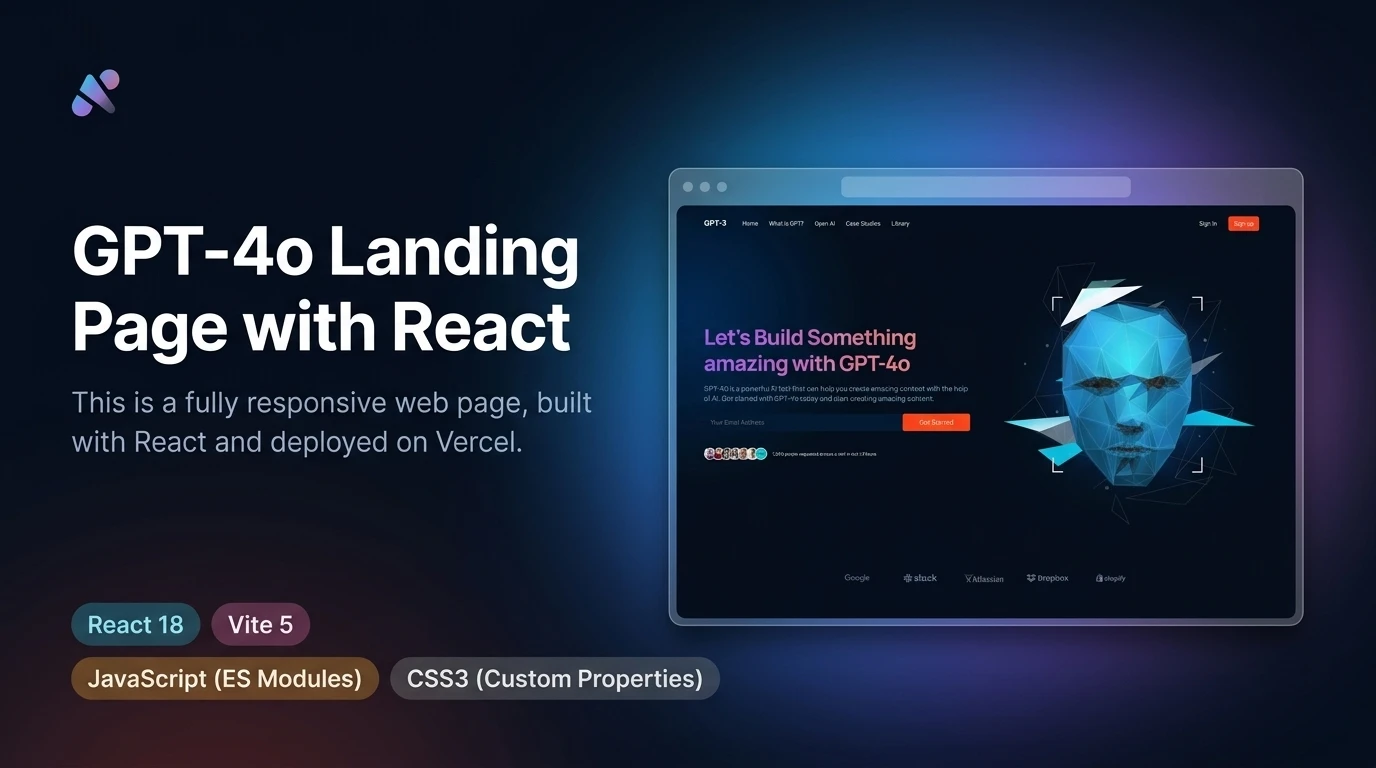
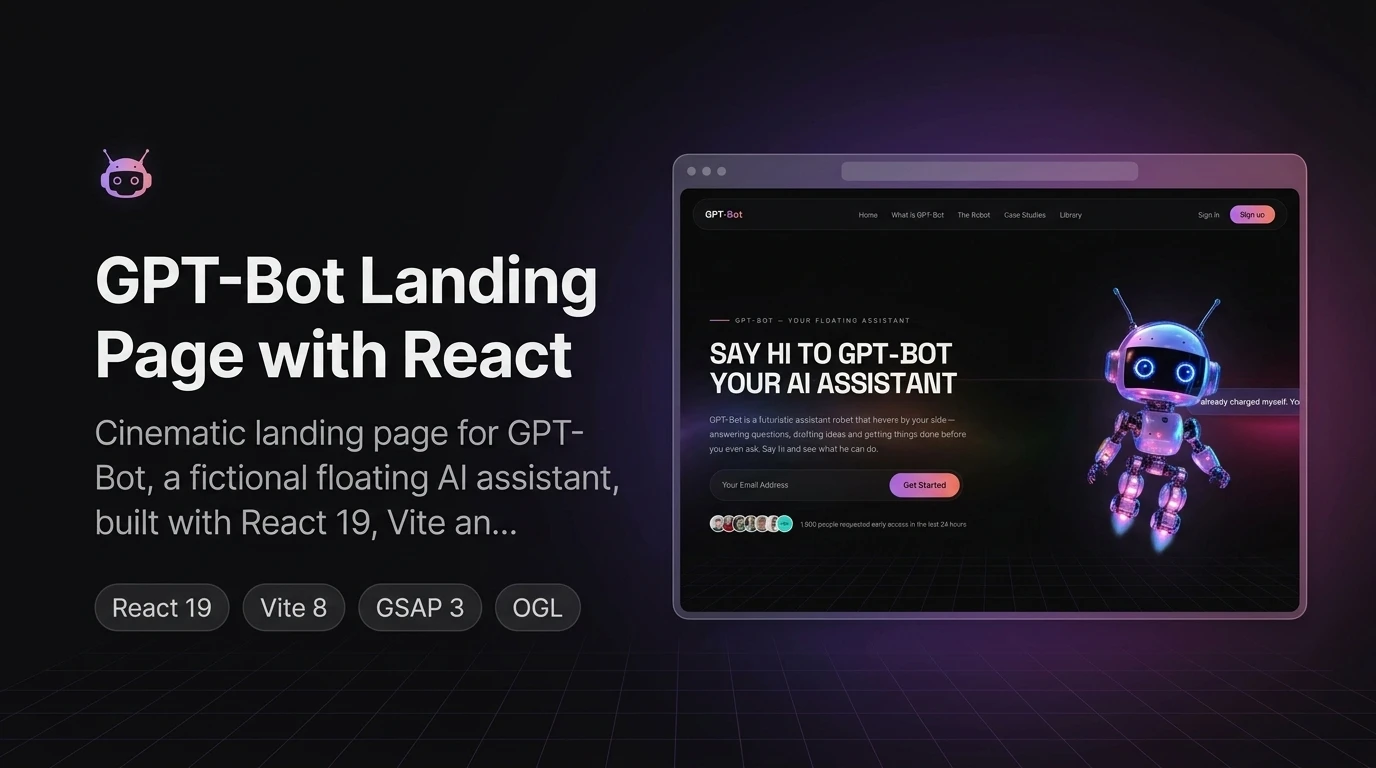
docs: sync README from studio

diff --git a/README.md b/README.md
@@ -11,7 +11,7 @@
   <a href='/'>
     <img
       src='screenshot.webp'
-      alt='Screenshot of the app'
+      alt='GPT-Bot landing page in dark mode with a glowing floating robot, a Say hi to GPT-Bot headline and an email sign-up with early-access social proof.'
       width='100%'
     />
   </a>
@@ -35,7 +35,7 @@
 </div>
 
 <div align='center'>
-  Cinematic landing page for GPT-Bot — a fictional floating AI assistant robot — built with React 19, Vite and GSAP. Deep-black UI with electric gradient accents, oversized display type, a boot-sequence preloader, a pinned scroll-story hero starring the floating robot with his speech bubble over a WebGL aurora, and a horizontally-scrolled blog filmstrip.
+  A cinematic landing page for GPT-Bot — a fictional floating AI assistant robot — built with React 19, Vite and GSAP. A boot-sequence preloader gives way to a pinned scroll-story hero with scrubbed scenes and split-text reveals, starring the floating robot and his cycling speech bubble over a shader-driven WebGL aurora rendered with OGL. Below it sit an infinite partner marquee, a horizontally-scrolled blog filmstrip pinned to vertical scroll, magnetic CTAs and an animated perspective grid floor, all on deep-black and neon design tokens.
 
 [Demo][demo-link] · [Report issue](/issues) · [Suggest something](/issues)
 
